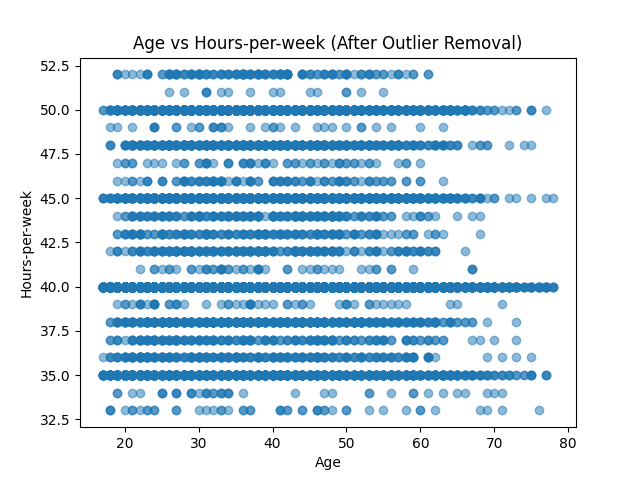
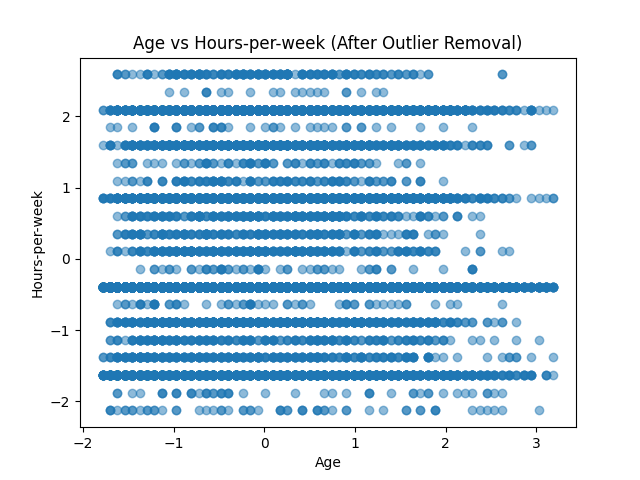
standardisign the data

diff --git a/main.py b/main.py
@@ -1,6 +1,7 @@
 import pandas as pd
 import numpy as np
-from sklearn.preprocessing import LabelEncoder
+import matplotlib.pyplot as plt
+from sklearn.preprocessing import LabelEncoder, StandardScaler
 
 df = pd.read_csv('adult_merged.csv')
 
@@ -38,5 +39,17 @@ IQR = Q3 - Q1
 df = df[~((df[iqr_cols] < (Q1 - 1.5 * IQR)) | (df[iqr_cols] > (Q3 + 1.5 * IQR))).any(axis=1)]
 # OUTLIER REMOVAL END
 
+# STANDARDIZATION START
+scaler = StandardScaler()
+df[num_cols] = scaler.fit_transform(df[num_cols])
+# STANDARDIZATION END
+
 print(f"Shape: {df.shape}")
 print(df.head())
+
+plt.scatter(df['age'], df['hours-per-week'], alpha=0.5)
+plt.title('Age vs Hours-per-week (After Outlier Removal)')
+plt.xlabel('Age')
+plt.ylabel('Hours-per-week')
+plt.savefig('scatter_plot.png')
+print("Scatter plot saved as scatter_plot.png")
